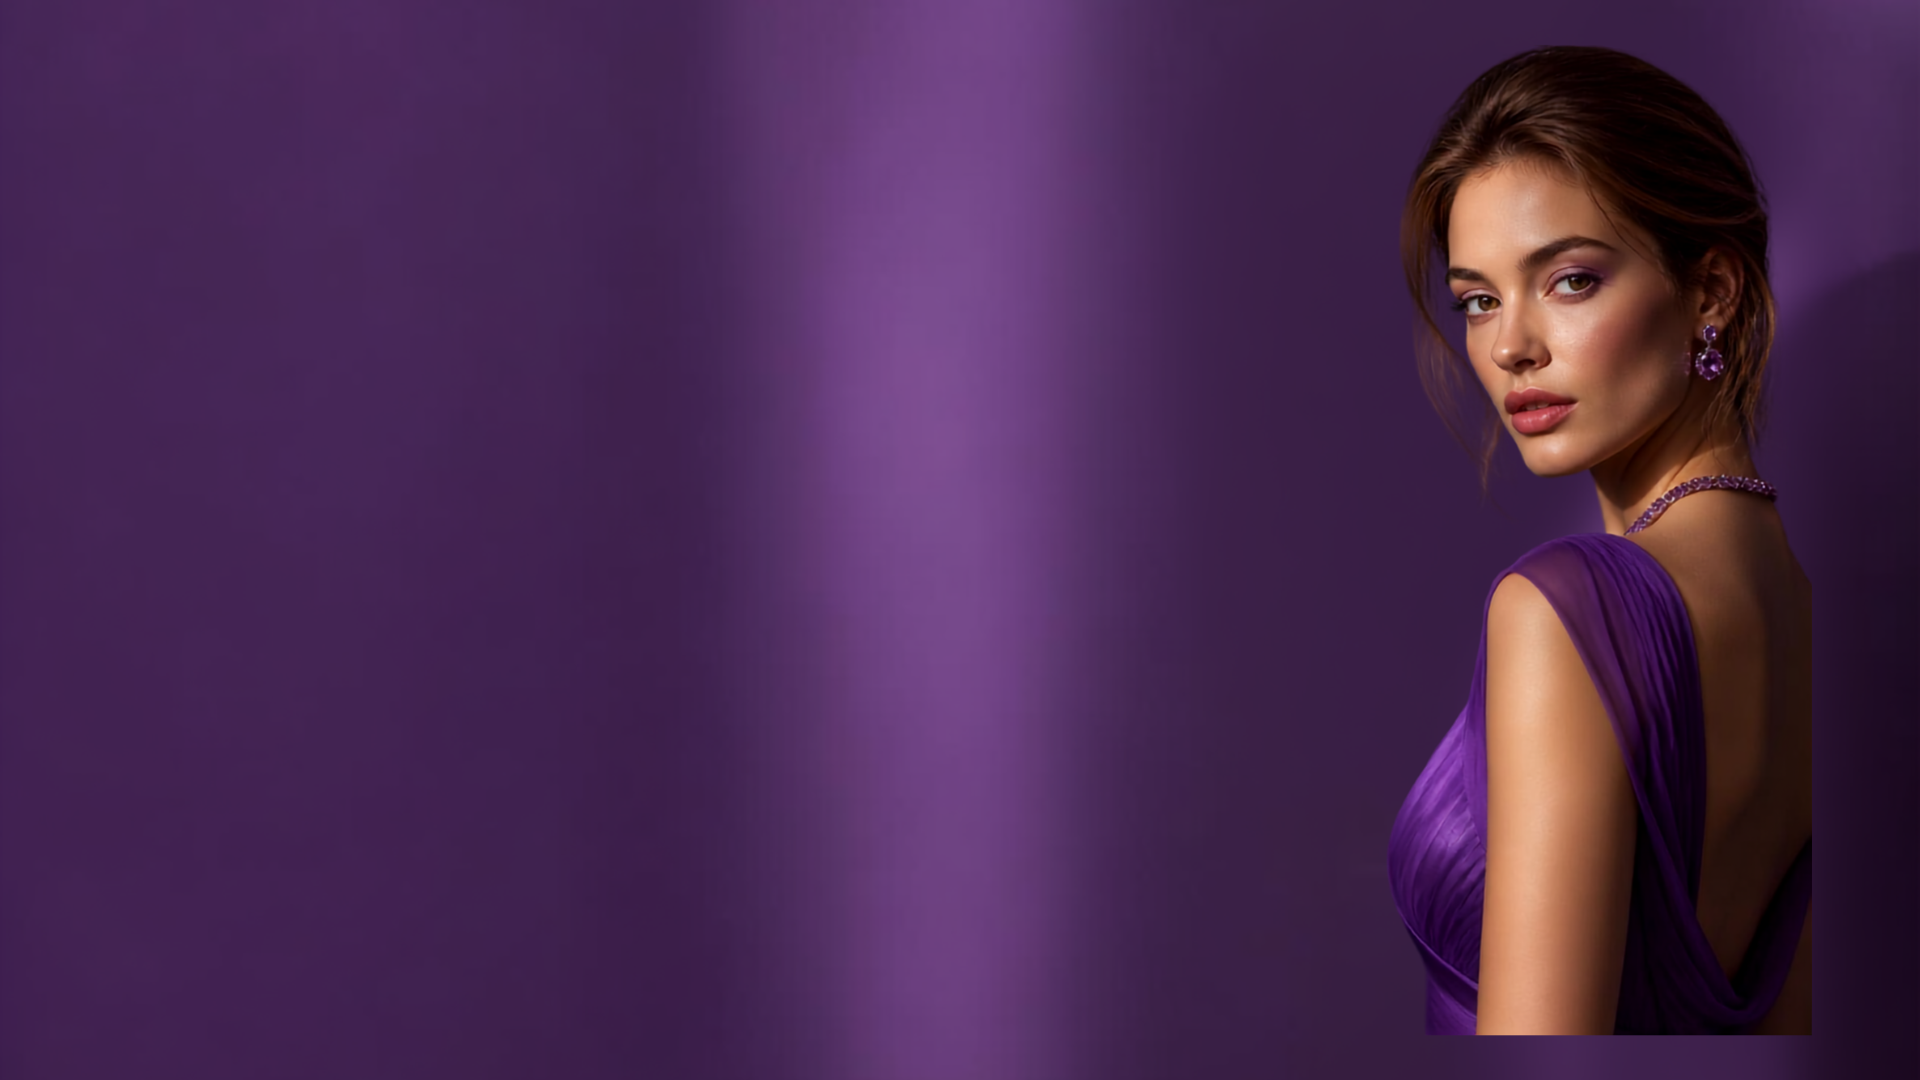
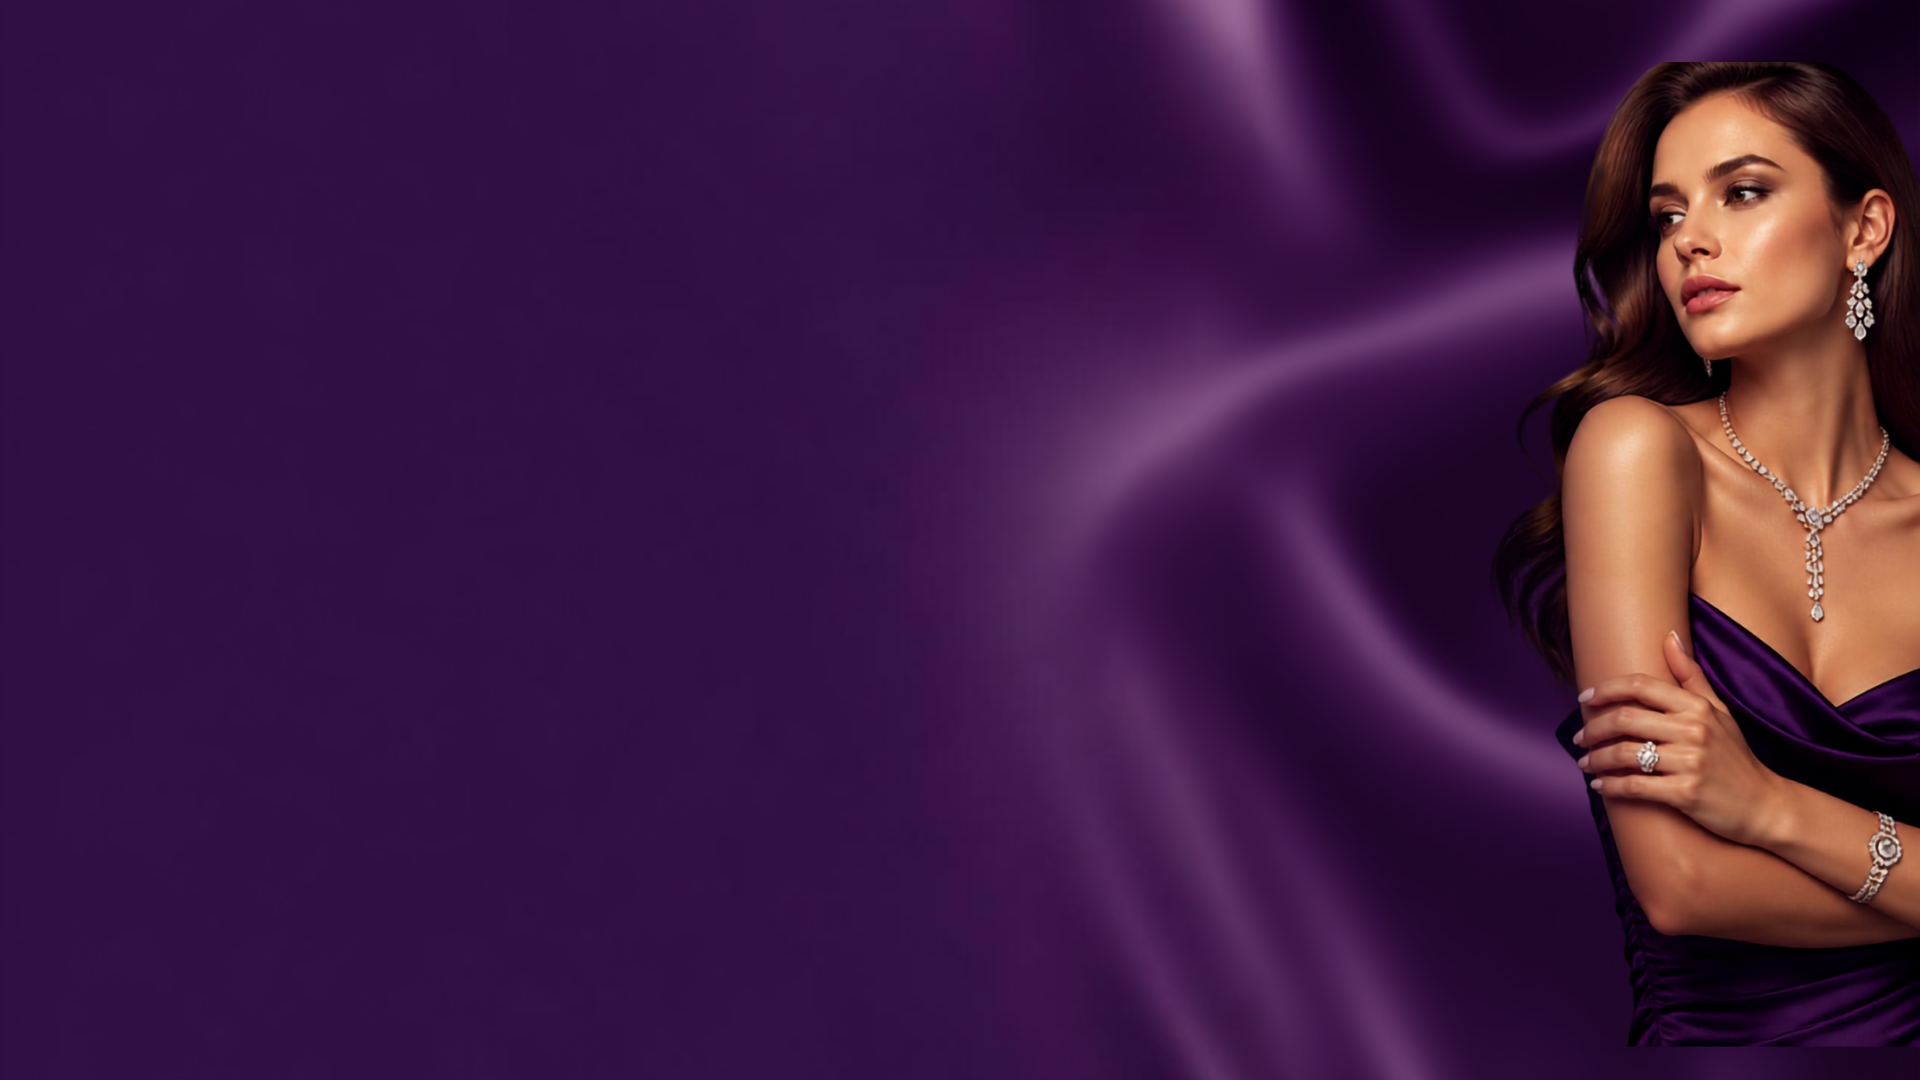
Update hero section images and fix admin page React import

diff --git a/src/components/home/HeroSection.tsx b/src/components/home/HeroSection.tsx
@@ -1,36 +1,56 @@
 import React, { useState, useEffect } from 'react';
 import { motion, AnimatePresence } from 'motion/react';
-import { ArrowRight, Sparkles } from 'lucide-react';
+import { ArrowRight } from 'lucide-react';
 import { useShop } from '../../context/ShopContext';
 import hero1 from '../../assets/hero-1.png';
 import hero2 from '../../assets/hero-2.png';
 import hero3 from '../../assets/hero-3.png';
+import hero4 from '../../assets/hero-4.png';
+import hero5 from '../../assets/hero-5.png';
+import hero6 from '../../assets/hero-6.png';
+import hero7 from '../../assets/hero-7.png';
+import hero8 from '../../assets/hero-8.png';
 
 const HERO_IMAGES = [
   {
-    img:hero1,
+    img: hero1,
     alt: 'PREPPY White Silk Haute Couture Collection',
     tag: 'Maison PREPPY Haute Couture',
   },
   {
-    img:hero2,
+    img: hero2,
     alt: 'PREPPY Royal Blue Velvet & Silk Couture',
     tag: 'Royal Sapphire Midnight Collection',
   },
   {
-    img:hero3,
+    img: hero3,
     alt: 'PREPPY Bronze & Chocolate Velvet Haute Couture',
     tag: 'Imperial Amber & Bronze Velvet Line',
   },
   {
-    img:"",
+    img: hero4,
     alt: 'PREPPY Royal Emerald Silk & Velvet Couture',
     tag: 'Imperial Emerald Heritage Line',
   },
   {
-    img:"",
+    img: hero5,
     alt: 'PREPPY Rosé Quartz & Champagne Silk Gown',
     tag: 'Rose Quartz Gala Atelier Capsule',
+  },
+  {
+    img: hero6,
+    alt: 'PREPPY Midnight Obsidian Silk Collection',
+    tag: 'Midnight Obsidian Edition',
+  },
+  {
+    img: hero7,
+    alt: 'PREPPY Golden Hour Silk Ensemble',
+    tag: 'Golden Hour Atelier Line',
+  },
+  {
+    img: hero8,
+    alt: 'PREPPY Ivory Elegance Couture',
+    tag: 'Ivory Elegance Heritage Capsule',
   },
 ];
 
@@ -108,20 +128,6 @@ export const HeroSection: React.FC = () => {
             <ArrowRight className="w-4 h-4 group-hover:translate-x-1 transition-transform" />
           </button>
         </motion.div>
-      </div>
-
-      {/* Slide Navigation Dots */}
-      <div className="absolute bottom-8 right-8 z-20 flex items-center gap-2 bg-black/40 backdrop-blur-md px-4 py-2 rounded-full border border-white/20">
-        {validHeroImages.map((_, idx) => (
-          <button
-            key={idx}
-            onClick={() => setCurrentImageIndex(idx)}
-            className={`h-2 rounded-full transition-all duration-300 ${
-              currentImageIndex === idx ? 'w-6 bg-[#C5A880]' : 'w-2 bg-white/50 hover:bg-white'
-            }`}
-            aria-label={`Go to slide ${idx + 1}`}
-          />
-        ))}
       </div>
     </section>
   );

diff --git a/src/App.tsx b/src/App.tsx
@@ -28,13 +28,8 @@ import { AboutPage } from './components/pages/AboutPage';
 import { FAQPage } from './components/pages/FAQPage';
 import { ContactPage } from './components/pages/ContactPage';
 
-// Lazy-loaded Admin Module
-const AdminLoginPage = React.lazy(() =>
-  import('./components/pages/AdminLoginPage').then(m => ({ default: m.AdminLoginPage }))
-);
-const AdminDashboardPage = React.lazy(() =>
-  import('./components/pages/AdminDashboardPage').then(m => ({ default: m.AdminDashboardPage }))
-);
+import { AdminLoginPage } from './components/pages/AdminLoginPage';
+import { AdminDashboardPage } from './components/pages/AdminDashboardPage';
 
 const AppContent: React.FC = () => {
   const { pageView, isAdminLoggedIn } = useShop();
@@ -70,10 +65,8 @@ const AppContent: React.FC = () => {
         {pageView === 'faq' && <FAQPage />}
         {pageView === 'contact' && <ContactPage />}
         
-        <React.Suspense fallback={<div className="min-h-screen flex items-center justify-center text-xs font-semibold uppercase tracking-widest text-[#C5A880]">Loading Admin Portal...</div>}>
-          {pageView === 'admin-login' && <AdminLoginPage />}
-          {pageView === 'admin' && (isAdminLoggedIn ? <AdminDashboardPage /> : <AdminLoginPage />)}
-        </React.Suspense>
+        {pageView === 'admin-login' && <AdminLoginPage />}
+        {pageView === 'admin' && (isAdminLoggedIn ? <AdminDashboardPage /> : <AdminLoginPage />)}
       </main>
 
       {/* Global Drawers & Modals */}
